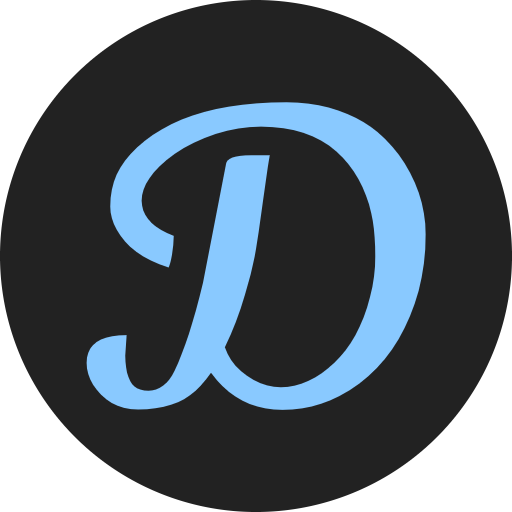
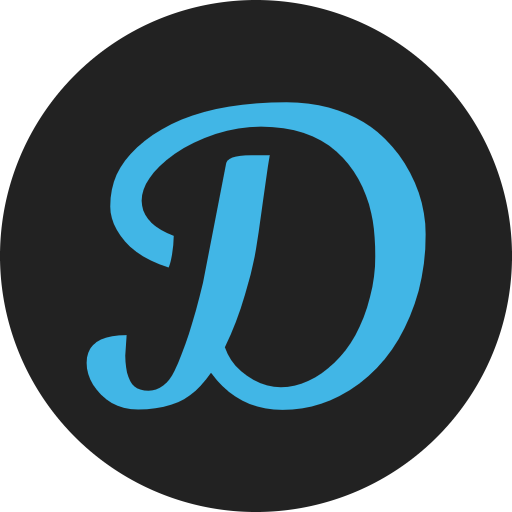
Updated code to comply with Web Content Accessibility Guidelines

Changed region(s): [[0.1562, 0.1875, 0.8438, 0.8125]]

diff --git a/index.html b/index.html
@@ -42,8 +42,8 @@
             </nav>
 
             <div class="menu-content">
-               <button class="toggle">
-                  <i class="fa-solid fa-bars" title="menu"></i>
+               <button class="toggle" aria-label="navigation menu">
+                  <i class="fa-solid fa-bars"></i>
                </button>
             </div>
 
@@ -70,8 +70,8 @@
                </div>
             </div>
             <div class="header-icons">
-               <a href="https://www.linkedin.com/in/ddarlin1/" target="_blank"><i class="fa-brands fa-linkedin fa-4x" alt="LinkedIn"></i></a>
-               <a href="https://github.com/ddarlin1/" target="_blank"><i class="fa-brands fa-github fa-4x" alt="GitHub"></i></a>
+               <a href="https://www.linkedin.com/in/ddarlin1/" target="_blank" title="LinkedIn"><i class="fa-brands fa-linkedin fa-4x"></i></a>
+               <a href="https://github.com/ddarlin1/" target="_blank" title="GitHub"><i class="fa-brands fa-github fa-4x"></i></a>
             </div>
          </div>
       </header>
@@ -82,7 +82,7 @@
                <h3>About Me</h3>
                <div class="half-content">
                   <figure>
-                     <img src="img/dd-clear.jpg" alt="photo of Dani Darling" id="about-photo">
+                     <img src="img/dd-portrait-1.jpg" alt="photo of Dani Darling" id="about-photo">
                   </figure>
                   <p class="about-text">
                      Hi there, I’m <span>Dani Darling</span>.<br>
@@ -111,7 +111,7 @@
                      <li><i class="fa-brands fa-js-square fa-4x" title="JavaScript"></i></li>
                      <li><i class="fa-brands fa-react fa-4x" title="React"></i></li>
                      <li><i class="fa-brands fa-git-alt fa-4x" title="Git"></i></li>
-                     <li><a href="https://github.com/ddarlin1/" target="_blank"><i class="fa-brands fa-github fa-4x" title="GitHub"></i></a></li>
+                     <li><a href="https://github.com/ddarlin1/" target="_blank" title="GitHub"><i class="fa-brands fa-github fa-4x" title="GitHub"></i></a></li>
                   </ul>
                </div>
                <div class="tool-wrapper">
@@ -225,14 +225,14 @@
                   <h4 class="contact-title">Hire me</h4>
                   <i class="fa-solid fa-phone fa-2x"></i>
                   <p>646-379-1649</p>
-                  <a href="mailto:ddarling212@gmail.com"><i class="fa-solid fa-envelope fa-2x" alt="email"></i></a>
+                  <a href="mailto:ddarling212@gmail.com" title="email"><i class="fa-solid fa-envelope fa-2x"></i></a>
                   <p>ddarling212<span>@</span>gmail.com</p>
                </div>
                <div class="contact-info follow">
                   <h4 class="contact-title">Follow me</h4>
                   <div class="social-icons">
-                     <a href="https://www.linkedin.com/in/ddarlin1/" target="_blank"><i class="fa-brands fa-linkedin fa-4x" alt="LinkedIn"></i></a>
-                     <a href="https://github.com/ddarlin1/" target="_blank"><i class="fa-brands fa-github fa-4x" alt="GitHub"></i></a>
+                     <a href="https://www.linkedin.com/in/ddarlin1/" target="_blank" title="LinkedIn"><i class="fa-brands fa-linkedin fa-4x"></i></a>
+                     <a href="https://github.com/ddarlin1/" target="_blank" title="GitHub"><i class="fa-brands fa-github fa-4x"></i></a>
                   </div>
                </div>
                <div class="contact-form">
@@ -242,7 +242,7 @@
                         <input 
                            type="text" 
                            name="name" 
-                           title="name"
+                           aria-label="write your full name"
                            id="full-name" 
                            placeholder="First & Last Name" 
                            required 
@@ -250,14 +250,14 @@
                         <input 
                            type="text"
                            name="replyto"
-                           title="email"
+                           aria-label="your email address"
                            id="email-address"
                            placeholder="your_email@email.com"
                            required
                         />
                         <textarea
                            name="message"
-                           title="message"
+                           aria-label="your message"
                            id="message"
                            placeholder="Message"
                            required

diff --git a/css/style.css b/css/style.css
@@ -1,8 +1,9 @@
 :root {
-    --blue: #334b71;
-    --dark-gray: #788da3;
-    --light-blue: #89c9ff;
-    --rose: #a378a2;
+    --blue: #1b365d;
+    --dark-gray: #4d4d5a;
+    --light-blue: #41b6e6;
+    --rose: #5d3754;
+    --highlight: #d6d2c4;
 }
 
 /* General styles */
@@ -44,6 +45,7 @@ h1 {
 h2 {
     font-family: 'Roboto Serif', sans-serif;
     font-size: 1.85rem;
+    padding: 2px 5px 0 5px;
 }
 
 h3 {
@@ -75,10 +77,6 @@ img {
 
 figure {
     margin: 0;
-}
-
-i {
-    color: var(--rose);
 }
 
 #scroll-button {
@@ -139,7 +137,7 @@ header {
  https://unsplash.com/photos/95YRwf6CNw8 */
 
 header .content-wrapper {
-    background: rgba(51, 75, 113, 0.97);
+    background: rgba(27, 54, 93, 0.95);
     border-radius: 10%;
 }
 
@@ -161,7 +159,7 @@ header .content-wrapper {
 
 .toggle:hover {
     box-shadow: 0 4px 6px rgba(0, 0, 0, 0.4);
-    background: var(--rose);
+    background: var(--highlight);
 }
 
 .toggle i {
@@ -190,7 +188,7 @@ header .content-wrapper {
     position: absolute;
     width: 100%;
     height: 100%;
-    background: rgba(0, 0, 0, 0.93);
+    background: rgba(0, 0, 0, 0.96);
     cursor: pointer;
     animation: fadeIn 0.2s ease-in-out forwards;
 }
@@ -235,7 +233,7 @@ ul li:last-child {
 /* Item links styles and hover effects */
 ul li a {
     text-decoration: none;
-    color: #ccc;
+    color: #fff;
     font-size: 3em;
     font-weight: 900;
     text-transform: uppercase;
@@ -280,7 +278,7 @@ ul li a:hover {
     height: 50px;
     font-size: 30px;
     font-weight: bold;
-    color: var(--rose);
+    color: var(--light-blue);
     display: flex;
     justify-content: center;
     align-items: center;
@@ -289,7 +287,7 @@ ul li a:hover {
 /* -------- INTRO TITLE -------- */
 
 #home i {
-    color: var(--rose);
+    color: var(--light-blue);
 }
 
 /* Intro Photo */
@@ -352,9 +350,7 @@ ul li a:hover {
 }
 
 .about-text span {
-    color: var(--light-blue);
     font-size: 1.1em;
-    font-family: 'Roboto Serif', sans-serif;
 }
 
 /* Skills */
@@ -390,7 +386,7 @@ ul li a:hover {
 }
 
 #skills a i:hover {
-    color: var(--rose);
+    color: var(--highlight);
 }
 
 /* Projects */
@@ -404,7 +400,7 @@ ul li a:hover {
 }
 
 #work span {
-    color: var(--light-blue);
+    font-weight: 900;
 }
 
 .portfolio-wrapper {
@@ -423,7 +419,7 @@ ul li a:hover {
 }
 
 .portfolio-piece figure {
-    filter: drop-shadow(1px 2px 3px gray);
+    filter: drop-shadow(1px 2px 2px gray);
 }
 
 .portfolio-piece figure:hover {
@@ -461,8 +457,11 @@ footer .social-icons {
     justify-content: space-around;
 }
 
-#connect a i:hover {
+#connect i {
     color: var(--light-blue);
+}
+#connect a i:hover {
+    color: var(--highlight);
 }
 
 .copyright {
@@ -501,9 +500,9 @@ form ::placeholder {
 }
 
 #contact-form button {
-    background-color: var(--rose);
+    background-color: var(--light-blue);
     border-radius: 10px;
-    color: #fff;
+    color:var(--blue);
     font-weight: 900;
     border: none;
     width: 50%;
@@ -513,7 +512,7 @@ form ::placeholder {
 }
 
 #contact-form button:hover {
-    background-color: var(--light-blue);
+    background-color: var(--highlight);
 }
 
 /* ----------------------------------  MEDIA QUERIES ----------------- */
@@ -541,6 +540,18 @@ form ::placeholder {
 
     #about-photo {
         margin-top: 10px;
+    }
+
+    #about img {
+        width: 275px;
+    }
+
+    #skills i {
+        font-size: 6em;
+    }
+
+    #skills ul li {
+        padding: 1em 3em 0 3em;
     }
 
     footer .contact-info {
